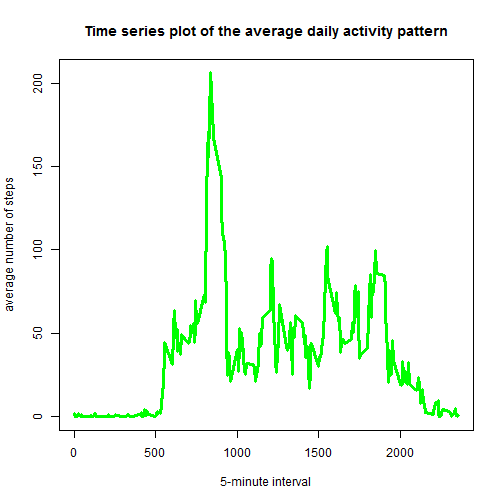
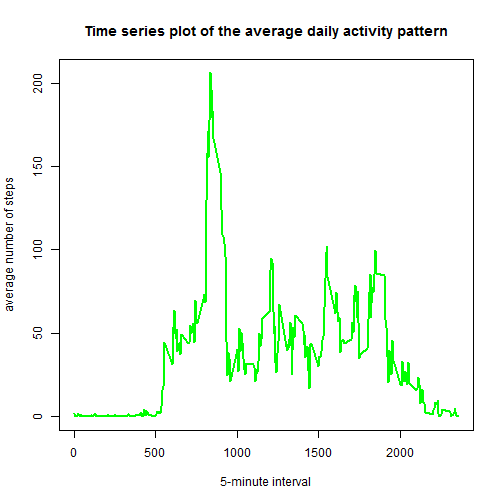
na values

diff --git a/PA1_template.html b/PA1_template.html
@@ -201,7 +201,7 @@ hr {
 </head>
 
 <body>
-<p>Author: Peter MÃ¼ller, 2015-12-10</p>
+<p>Author: Peter Müller, 2015-12-13</p>
 
 <h2>Overview</h2>
 
@@ -210,7 +210,7 @@ hr {
 <h3>Loading and preprocessing the data</h3>
 
 <pre><code class="r"># loading the data
-activity &lt;- read.csv(&quot;activity.csv&quot;, colClasses = c(&quot;numeric&quot;, &quot;character&quot;, &quot;numeric&quot;))
+activity = read.csv(&quot;activity.csv&quot;, colClasses = c(&quot;numeric&quot;, &quot;character&quot;, &quot;numeric&quot;))
 # convert to date
 activity$date &lt;- as.Date(activity$date, &quot;%Y-%m-%d&quot;)
 </code></pre>
@@ -218,7 +218,7 @@ activity$date &lt;- as.Date(activity$date, &quot;%Y-%m-%d&quot;)
 <h3>What is mean total number of steps taken per day?</h3>
 
 <pre><code class="r"># total number of steps for each day
-dailySteps &lt;- aggregate(steps ~ date, data = activity, FUN=sum, na.rm = TRUE)
+dailySteps = aggregate(steps ~ date, data = activity, FUN=sum, na.rm = TRUE)
 # draw histogramm
 hist(dailySteps$steps, breaks=20, main = &quot;daily steps&quot;, xlab = &quot;total steps / day&quot;, col = &quot;green&quot;)
 </code></pre>
@@ -236,19 +236,81 @@ plot(dailyPattern$interval,
      dailyPattern$steps, 
      type=&quot;l&quot;, 
      col=&quot;green&quot;, 
-     lwd = 3,
+     lwd = 2,
      xlab=&quot;5-minute interval&quot;, 
      ylab=&quot;average number of steps&quot;, 
      main=&quot;Time series plot of the average daily activity pattern&quot;)
 </code></pre>
 
[2 lines of base64/hex data omitted]
 
 <p>5-minute interval containing the maximum steps: <strong>835</strong> (206 steps)</p>
 
 <h3>Imputing missing values</h3>
 
+<p>Total records: <strong>17568</strong></p>
+
+<p>NA values: <strong>2304</strong></p>
+
+<pre><code class="r"># replace NAs with average of the interval in a new dataset
+activity1 = activity
+for (i in 1:nrow(activity1)) {
+    if (is.na(activity1$steps[i])) {
+        activity1$steps[i] &lt;- subset(dailyPattern, interval == activity1$interval[i])$steps
+    }
+}
+</code></pre>
+
+<p>NA values after replacing NA: <strong>0</strong></p>
+
+<pre><code class="r"># total number of steps for each day
+dailySteps = aggregate(steps ~ date, data = activity1, FUN=sum, na.rm = TRUE)
+# draw histogramm
+hist(dailySteps$steps, breaks=20, main = &quot;daily steps (NA removed)&quot;, xlab = &quot;total steps / day&quot;, col = &quot;green&quot;)
+</code></pre>
+
[1 lines of base64/hex data omitted]
+
+<p>The mean is <strong>10766.19</strong> and median is <strong>10766.19</strong>.</p>
+
+<p>After replacing NA values the mean and the median are equal to the previously calculated mean.</p>
+
 <h3>Are there differences in activity patterns between weekdays and weekends?</h3>
+
+<pre><code class="r"># create function to determin wekkeday or weekend
+type &lt;- function(date) {
+    if (weekdays(date) %in% c(&quot;Saturday&quot;, &quot;Sunday&quot;, &quot;Samstag&quot;, &quot;Sonntag&quot;)) {
+        &quot;weekend&quot;
+    } else {
+        &quot;weekday&quot;
+    }
+}
+
+# add type to dataset
+activity1$daytype = as.factor(sapply(activity1$date, type))
+
+# calculate average of each 5 minute interval
+weekday = aggregate(steps ~ interval, subset(activity1, daytype == &quot;weekday&quot;), FUN=mean)
+weekday$daytype = as.factor(&quot;weekday&quot;) 
+weekend = aggregate(steps ~ interval, subset(activity1, daytype == &quot;weekend&quot;), FUN=mean)
+weekend$daytype = as.factor(&quot;weekend&quot;)
+dailyPattern = rbind(weekday, weekend) 
+
+library(lattice)
+xyplot(
+        steps ~ interval | daytype,
+        dailyPattern,
+        type = &quot;l&quot;,
+        layout = c(1,2),
+        col=&quot;green&quot;, 
+        lwd = 2,
+        xlab=&quot;5-minute interval&quot;, 
+        ylab=&quot;average number of steps&quot;, 
+        main=&quot;Time series plot of the average daily activity pattern \ngrouped by weekend/weekdays&quot;
+)
+</code></pre>
+
[1 lines of base64/hex data omitted]
 
 </body>
 
